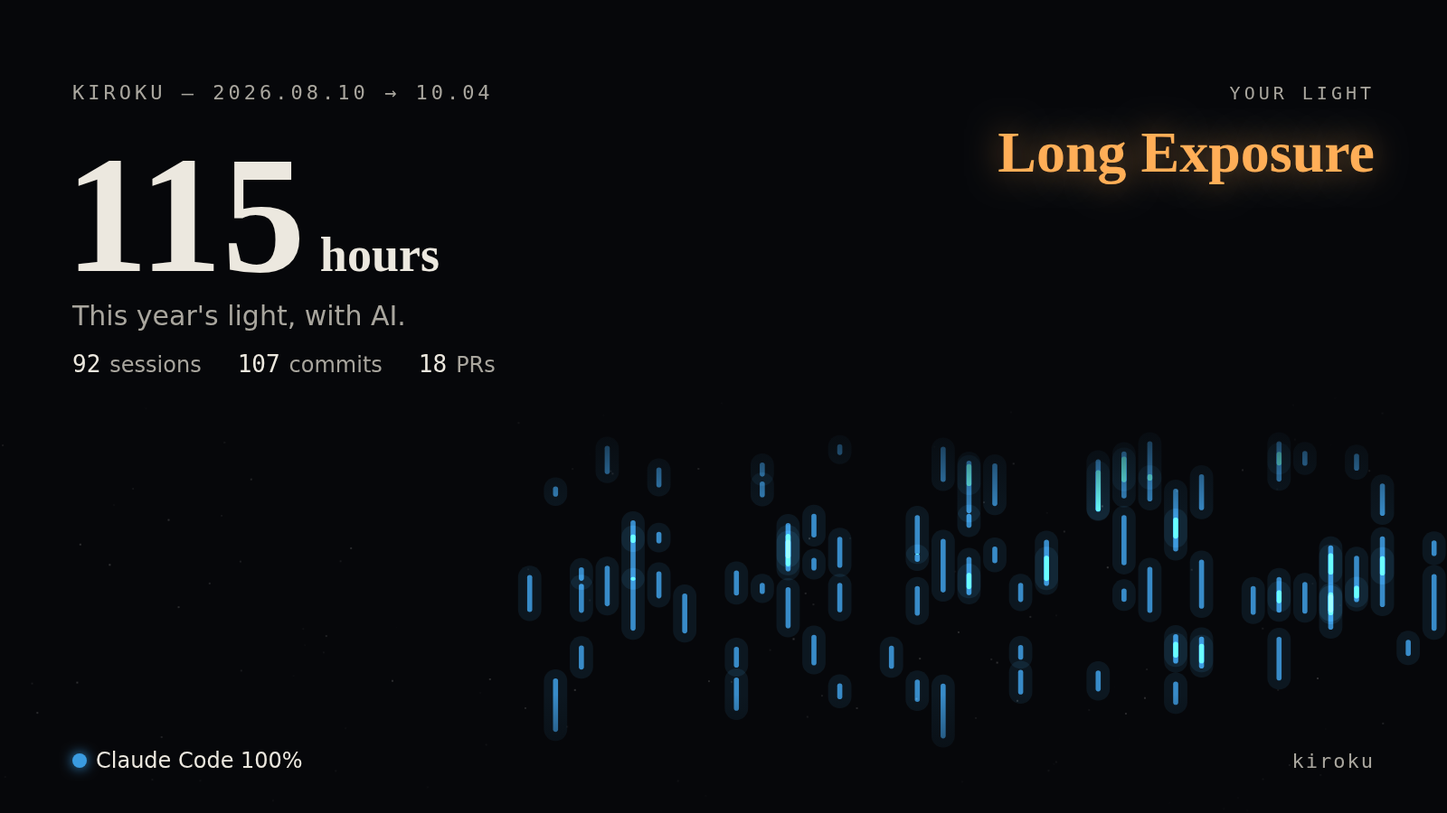
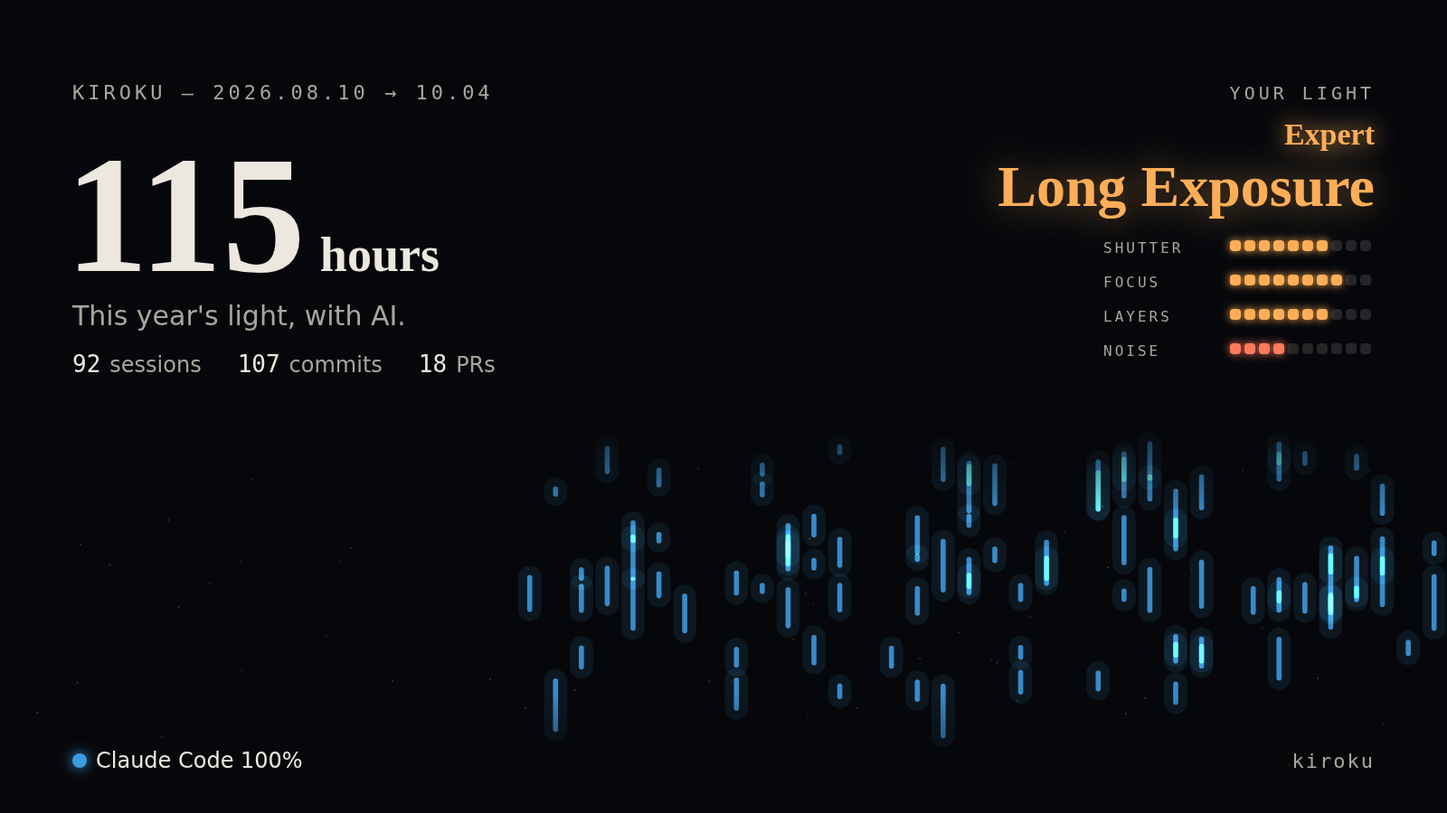
1 年の露光に腕前（4 つのメーター・等級・上達・露出オーバー）を足す (#78)
- 光の名前（型）とは別に、シャッター数（積み重ね）・ピント（仕上げる力）・多重度（使いこなしの幅）・ノイズ（回り道）を 10 段階で示す
- 点数（3 つの平均からノイズの 4 割を引く）で 見習い〜伝説 の 10 段階の等級を名前の前に付ける。前半より後半がよくなれば「上達中」で 1 段上げる
- 休みなく続けた・利用上限に何度も当たった・ノイズが多いときは、等級の代わりに露出オーバーの冠（白飛びした・フィルム切れの・ノイズの多い）を付ける
- 年の途中や使い始めの年は、経った日数のぶん（半分まで）満点を下げる
- シェア画像にもメーターと冠を載せる（「腕前」のチェックで外せる）。週次・月次サマリーには使わない

Changed region(s): [[0.6875, 0.1244, 0.9688, 0.4667], [0.7812, 0.3733, 0.8125, 0.4044]]

diff --git a/internal/web/template.html b/internal/web/template.html
@@ -512,8 +512,10 @@ dialog.yr h3{font:700 15px/1.4 var(--sans);margin:30px 0 10px}
 .yropts label{display:inline-flex;align-items:center;gap:6px;cursor:pointer}
 .yract{display:flex;flex-wrap:wrap;gap:8px;margin-top:12px}
 .yrtype{display:grid;grid-template-columns:auto minmax(0,1fr);gap:22px;align-items:start}
-.yrtn{writing-mode:vertical-rl;font:800 44px/1 var(--mincho);letter-spacing:.1em;white-space:nowrap}
-.yrtn.h{writing-mode:horizontal-tb;font-size:30px;letter-spacing:0}
+.yrtn{display:flex;flex-direction:row-reverse;align-items:flex-start;gap:8px;font:800 44px/1 var(--mincho);letter-spacing:.1em;white-space:nowrap}
+.yrtn>span{writing-mode:vertical-rl}
+.yrtn.h{flex-direction:column;gap:4px;font-size:30px;letter-spacing:0}.yrtn.h>span{writing-mode:horizontal-tb}
+.yrtn .pre{font-size:20px;font-weight:700;color:#d98a3a}.yrtn .pre.over{color:var(--warn)}
 .yrtd{margin:0;font-size:14px}
 .yrev{display:grid;grid-template-columns:repeat(3,minmax(0,1fr));gap:12px;margin:12px 0 0}
 .yrev div{border-top:1px solid var(--rule);padding-top:8px;min-width:0}
@@ -522,8 +524,19 @@ dialog.yr h3{font:700 15px/1.4 var(--sans);margin:30px 0 10px}
 .yrtypes summary{cursor:pointer;font-size:12px;color:var(--ink-2);margin-top:14px}
 .yrtypes ul{list-style:none;padding:0;margin:8px 0 0;display:grid;grid-template-columns:repeat(2,minmax(0,1fr));gap:6px 18px;font-size:12px;color:var(--ink-2)}
 .yrtypes b{color:var(--ink)}
+.yrgrade{margin-top:14px}
+.yrexp{display:inline-block;font-size:12px;font-weight:600;padding:3px 10px;border-radius:999px;border:1px solid var(--rule-2);color:var(--ink-2)}
+.yrexp.ok{color:var(--acc-ink);border-color:var(--acc)}.yrexp.over{color:var(--warn);border-color:var(--warn)}
+.yrmeter{display:grid;gap:10px;margin:12px 0 0}
+.yrmeter div{display:grid;grid-template-columns:9em minmax(0,1fr);gap:12px;align-items:center;border-top:1px solid var(--rule);padding-top:8px}
+.yrmeter dt{font-weight:700;font-size:13px}.yrmeter dt small{display:block;font-weight:400;font-size:11px;color:var(--ink-3)}
+.yrmeter dd{margin:0;display:flex;flex-wrap:wrap;gap:6px 14px;align-items:center;min-width:0}
+.yrmeter .pp{display:inline-flex;gap:3px}.yrmeter .pp i{width:10px;height:8px;border-radius:3px;background:var(--rule-2)}.yrmeter .pp i.on{background:#ffae57;box-shadow:0 0 8px rgba(255,174,87,.6)}
+.yrmeter .pv{font-size:12px;color:var(--ink-2);font-variant-numeric:tabular-nums}
+.yrmeter .neg .pp i.on{background:#ff7a5c;box-shadow:0 0 8px rgba(255,122,92,.6)}.yrgrade .yrexp + .yrexp{margin-left:6px}
 @media (max-width:820px){dialog.yr{padding:18px 16px 24px;width:calc(100vw - 16px);max-height:calc(100dvh - 16px)}
-  .yrhow,.yrev,.yrtypes ul,.yrtype{grid-template-columns:minmax(0,1fr)}.yrtn{writing-mode:horizontal-tb;font-size:30px;letter-spacing:0}}
+  .yrhow,.yrev,.yrtypes ul,.yrtype{grid-template-columns:minmax(0,1fr)}.yrtn{flex-direction:column;gap:4px;font-size:30px;letter-spacing:0}.yrtn>span{writing-mode:horizontal-tb}
+  .yrmeter div{grid-template-columns:minmax(0,1fr)}}
 .keys{display:grid;grid-template-columns:auto 1fr;gap:9px 16px;font-size:12.5px;margin-top:14px;align-items:center}
 .keys kbd{justify-self:start}
 
@@ -1672,7 +1685,7 @@ const PLATE = ["#3a9be0","#f07a2b","#1fbf8f","#e08fbd","#f2b53a","#7cc6f0","#9c8
 const FONT = { mincho: '"Hiragino Mincho ProN","Yu Mincho","YuMincho","Noto Serif JP","Noto Serif CJK JP",serif',
   sans: '"Hiragino Sans","Hiragino Kaku Gothic ProN","Noto Sans JP","Noto Sans CJK JP","Yu Gothic UI",system-ui,sans-serif',
   mono: 'ui-monospace,"SFMono-Regular","JetBrains Mono",Menlo,Consolas,monospace' };
-const yr = { y: null, x: null, L: null, opt: Object.assign({out: true, type: true, agents: true}, store.get("yrOpt", {})) };
+const yr = { y: null, x: null, L: null, G: null, opt: Object.assign({out: true, type: true, grade: true, agents: true}, store.get("yrOpt", {})) };
 function yearsOf(){ return [...new Set(Object.keys(MONTHS).map(k => +k.slice(0, 4)))].sort((a, b) => a - b); }
 function yearData(y){
   const ms = Object.keys(MONTHS).filter(k => k.startsWith(y + "-")).sort().map(k => MONTHS[k]);
@@ -1703,11 +1716,28 @@ function yearData(y){
     });
   });
   const ht = hist.reduce((a, v) => a + v, 0) || 1, now = today0();
+  // 腕前に使う数字（gradeOf）。割合は、記録のある期間・エージェントだけで出す
+  const outBase = sum(m => m.outBase), cost = sum(m => m.usage && m.usage.cost), nY = Math.max(1, nses);
+  const mods = {}; ms.forEach(m => ((m.usage || {}).models || []).forEach(([k, , t]) => mods[k] = (mods[k] || 0) + (t || 0)));
+  const mT = Object.values(mods).reduce((a, v) => a + v, 0);
+  // 上達：記録のある月が 4 か月以上なら、前半と後半で言い直しの割合と 1 コミットあたりのコストを比べる
+  const half = ms.filter(m => m.prompts), hv = xs => { const p = xs.reduce((a, m) => a + (m.fixRate == null ? 0 : m.prompts), 0), c = xs.reduce((a, m) => a + (m.outputs ? m.outputs.commits : 0), 0);
+    return {fix: p ? xs.reduce((a, m) => a + (m.fixRate == null ? 0 : m.fixRate * m.prompts), 0)/p : null, cpc: c >= 3 ? xs.reduce((a, m) => a + (m.costPerCommit == null ? 0 : m.costPerCommit * m.outputs.commits), 0)/c : null}; };
+  const h1 = half.length >= 4 ? hv(half.slice(0, half.length >> 1)) : null, h2 = h1 && hv(half.slice(half.length >> 1));
+  const grow = !!h1 && (h1.fix != null && h2.fix != null && h1.fix - h2.fix >= 3 || h1.cpc != null && h2.cpc != null && h2.cpc <= h1.cpc * .8);
+  const first = DATA.find(s => s.start >= y0 && s.start < y1), span = Math.max(1, Math.round(((now.getFullYear() === y ? +now/1000 : y1) - (first ? Math.max(y0, first.start) : y0))/86400));
   return { y, nd, active, lines, agents, streak, sessions: nses,
     nightPct: active ? night/active*100 : 0, morningPct: (hist[5] + hist[6] + hist[7] + hist[8])/ht*100, peak: hist.indexOf(Math.max(...hist)),
     fix: fixP ? sum(m => m.fixRate == null ? 0 : m.fixRate * m.prompts)/fixP : null,
     avgMin: nses ? segMin/nses : 0, perSes: nses ? nprompts/nses : 0,
     commits: sum(m => m.git && m.git.commits), prs: sum(m => m.outputs && m.outputs.prs),
+    days: on.size, prompts: nprompts, span, fixP, outBase, grow,
+    reach: outBase >= 5 ? sum(m => m.outSessions)/outBase*100 : null,
+    perCommit: outBase >= 5 && sum(m => m.outputs && m.outputs.commits) ? sum(m => m.prompts)/sum(m => m.outputs.commits) : null,
+    parPct: active ? sum(m => m.parallel)/active*100 : 0, subagents: sum(m => m.usage && m.usage.subagents),
+    models: mT ? Object.values(mods).filter(v => v/mT >= .1).length : 0,
+    longPct: longCtxOf(y0, y1).length/nY*100, idlePct: cost >= 1 ? idleOf(y0, y1).c/cost*100 : null, lightPct: cost >= 1 ? lightOf(y0, y1).c/cost*100 : null,
+    limits: limitHits(y0, y1).length,
     partial: now.getFullYear() === y ? now : null };
 }
 /* 光の名前：使い方の傾向を写真の言葉で表す（良し悪しではない）。上から順に、最初に当てはまったもの */
@@ -1733,6 +1763,37 @@ const LIGHTS = [
   {k: "day", ja: "昼光型", en: "Daylight", m: "peak", t: () => true,
    dj: "日中に、落ち着いて AI と進める。", de: "You work with AI steadily through the day.",
    rj: "ほかのどれにも当てはまらない", re: "None of the above"}];
+/* 腕前：光の名前（型）とは別に、4 つのメーターで積み重ね・仕上げる力・使いこなしの幅・回り道を 0〜1 で測る。露光の画面だけの遊びで、週次・月次サマリーには使わない */
+const TIERS = [ // 点数で決める 10 段階（10% ごと）
+  ["見習い", "Novice"], ["入門", "Beginner"], ["駆け出し", "Apprentice"], ["一人前", "Competent"], ["腕利き", "Skilled"],
+  ["熟練", "Expert"], ["達人", "Master"], ["名人", "Virtuoso"], ["巨匠", "Grandmaster"], ["伝説", "Legendary"]].map(([ja, en], i) => ({ja, en, u: i === 9 ? Infinity : (i + 1)/10}));
+const OVERS = [ // 露出オーバー（働き方の危うさ・回り道が多すぎる）。上から順に、最初に当てはまったものを等級の代わりに冠にする
+  {k: "blown", ja: "白飛びした", en: "Blown-Out", t: x => x.streak >= 30 && x.active/Math.max(1, x.days) >= 120 || x.nightPct >= 40 && x.streak >= 14,
+   rj: "1 日平均 2 時間以上で 30 日以上休みなく続けたか、深夜の作業が 40% 以上で 14 日以上休みなし", re: "30+ days in a row without a break at 2+ hours a day, or 40%+ late at night with 14+ days in a row"},
+  {k: "film", ja: "フィルム切れの", en: "Out-of-Film", t: x => x.limits >= 10,
+   rj: "利用上限に 10 回以上当たった", re: "Hit a usage limit 10 or more times"},
+  {k: "noise", ja: "ノイズの多い", en: "Grainy", t: (x, G) => G.m.noise != null && G.m.noise >= .6,
+   rj: "ノイズ（回り道）が 60% 以上", re: "Noise (detours) at 60% or more"}];
+function gradeOf(x){
+  const c = v => Math.max(0, Math.min(1, v)), avg = a => (a = a.filter(v => v != null)).length ? a.reduce((s, v) => s + v, 0)/a.length : null;
+  const top2 = a => avg(a.slice().sort((p, q) => q - p).slice(0, 2)); // 使いこなしの幅は、どれか 2 つが得意なら高くなる
+  const f = Math.max(.5, Math.min(1, x.span/365)); // 年の途中や使い始めの年は、経った日数のぶんだけ満点を下げる（使い始めてすぐ満点にならないよう、半分まで）
+  const eff = 1/(x.agents.reduce((s, g) => s + (g.pct/100)**2, 0) || 1); // 使い分けの度合い（1 つだけなら 1、3 つを均等なら 3）
+  const m = {
+    shutter: avg([c(x.days/(180*f)), c(Math.log1p(x.prompts)/Math.log1p(3000*f)), c(Math.log1p(x.active/60)/Math.log1p(800*f))]),
+    focus: avg([x.reach == null ? null : c(x.reach/50), x.perCommit == null ? null : c((20 - x.perCommit)/15)]), // コミットまで 50%・5 依頼で 1 コミットで満点
+    multi: top2([c(x.parPct/30), c(Math.log1p(x.subagents)/Math.log1p(200*f)), c((eff - 1)/2), c((x.models - 1)/2)]),
+    noise: avg([x.fix == null ? null : c((x.fix - 5)/20), c(x.longPct/15), x.idlePct == null ? null : c(x.idlePct/40), x.lightPct == null ? null : c(x.lightPct/20)]) };
+  const base = avg([m.shutter, m.focus, m.multi]) || 0, score = Math.max(0, base - .4*(m.noise || 0));
+  let ti = TIERS.findIndex(t => score < t.u);
+  if (x.grow) ti = Math.min(TIERS.length - 1, ti + 1); // 上達していれば 1 段上げる
+  if (ti === TIERS.length - 1 && !([m.shutter, m.focus ?? 1, m.multi].every(v => v >= .8) && (m.noise || 0) <= .2)) ti--; // 伝説は 3 つとも高く、ノイズが少ないときだけ
+  const G = {m, score, tier: TIERS[ti], grow: x.grow};
+  G.over = OVERS.find(o => o.t(x, G));
+  G.exp = G.over ? "over" : score < .4 ? "under" : "ok";
+  return G;
+}
+const pips = v => v == null ? 0 : Math.max(0, Math.min(10, Math.round(v*10))); // メーターの 10 段階
 function lightMetric(k, x){
   return ({ night: [tr("深夜（22〜6 時）の作業", "Late-night work (22:00–6:00)"), `${Math.round(x.nightPct)}%`],
     morning: [tr("5〜9 時の作業", "Work between 5:00 and 9:00"), `${Math.round(x.morningPct)}%`],
@@ -1766,6 +1827,16 @@ function drawPlate(){
   const r = cv.getBoundingClientRect(), p = Math.min(2, devicePixelRatio || 1), W = Math.round(r.width*p), H = Math.round(r.height*p);
   if (!W || !H) return; cv.width = W; cv.height = H; exposure(cv.getContext("2d"), 0, 0, W, H, yr.x, p, true);
 }
+function cardMeters(g, X, Y, ink2, amber){ // シェア画像の腕前：4 つのメーターを 10 段階で
+  const G = yr.G; g.save(); g.textAlign = "left"; g.textBaseline = "alphabetic";
+  [["shutter", tr("シャッター数", "SHUTTER")], ["focus", tr("ピント", "FOCUS")], ["multi", tr("多重度", "LAYERS")], ["noise", tr("ノイズ", "NOISE")]].forEach(([k, n], r) => {
+    const y = Y + r*38, p = pips(G.m[k]), on = k === "noise" ? "#ff7a5c" : amber;
+    g.fillStyle = ink2; g.font = `500 ${EN() ? 16 : 20}px ${EN() ? FONT.mono : FONT.sans}`; if (EN() && "letterSpacing" in g) g.letterSpacing = "3px"; g.fillText(n, X, y); if ("letterSpacing" in g) g.letterSpacing = "0px";
+    for (let i = 0; i < 10; i++){ g.fillStyle = i < p ? on : "rgba(255,255,255,.12)"; g.shadowColor = on; g.shadowBlur = i < p ? 10 : 0;
+      g.beginPath(); g.roundRect ? g.roundRect(X + 140 + i*16, y - 14, 12, 12, 4) : g.rect(X + 140 + i*16, y - 14, 12, 12); g.fill(); }
+    g.shadowBlur = 0; });
+  g.restore();
+}
 function drawCard(){
   const cv = $("#yrcard"); if (!cv || !yr.x) return;
   const x = yr.x, L = yr.L, o = yr.opt, W = 1600, H = 900, g = cv.getContext("2d");
@@ -1796,19 +1867,27 @@ function drawCard(){
   items.forEach(([n, l]) => { g.font = `500 26px ${FONT.mono}`; g.fillStyle = ink; const t = n.toLocaleString(LOC()); g.fillText(t, cx, 412); cx += g.measureText(t).width + 10;
     g.font = `500 24px ${FONT.sans}`; g.fillStyle = ink2; g.fillText(l, cx, 412); cx += g.measureText(l).width + 40; });
   if (o.type && L){
+    const G = yr.G, pre = o.grade ? (G.over ? tr(G.over.ja, G.over.en) : tr(`${G.tier.ja}の`, G.tier.en)) : "", hot = "#ff7a5c", pc = o.grade && G.over ? hot : amber;
     g.shadowColor = "rgba(255,174,87,.5)"; g.shadowBlur = 36;
     if (EN()){
       g.textAlign = "right"; g.shadowBlur = 0; g.fillStyle = ink2; g.font = `500 20px ${FONT.mono}`; ls("4px"); g.fillText("YOUR LIGHT", W - 80, 110); ls("0px");
-      g.shadowBlur = 36; g.fillStyle = amber; g.font = `800 64px ${FONT.mincho}`; g.fillText(L.en, W - 80, 190);
+      if (pre){ g.shadowColor = pc; g.shadowBlur = 24; g.fillStyle = pc; g.font = `700 34px ${FONT.mincho}`; g.fillText(pre, W - 80, 160); }
+      g.shadowColor = "rgba(255,174,87,.5)"; g.shadowBlur = 36; g.fillStyle = amber; g.font = `800 64px ${FONT.mincho}`; g.fillText(L.en, W - 80, pre ? 228 : 190);
+      g.shadowBlur = 0; if (o.grade) cardMeters(g, W - 80 - 300, 280, ink2, amber);
     } else {
-      const ch = [...L.ja], sz = Math.min(92, 300/ch.length), x0 = W - 80 - sz;
-      g.textAlign = "center"; g.textBaseline = "top"; g.fillStyle = amber; g.font = `800 ${sz}px ${FONT.mincho}`;
+      // 縦書きは右から読むので、冠（等級）を右の列に小さく、名前をその左に置く
+      const pc2 = [...pre], ps = pre ? Math.min(34, 300/pc2.length) : 0, ch = [...L.ja], sz = Math.min(92, 300/ch.length), x0 = W - 80 - sz - (pre ? ps + 14 : 0);
+      g.textAlign = "center"; g.textBaseline = "top";
+      if (pre){ g.save(); g.shadowColor = pc; g.shadowBlur = 20; g.fillStyle = pc; g.font = `700 ${ps}px ${FONT.mincho}`; pc2.forEach((c, i) => g.fillText(c, W - 80 - ps/2, 96 + i*ps*1.08)); g.restore(); }
+      g.fillStyle = amber; g.font = `800 ${sz}px ${FONT.mincho}`;
       ch.forEach((c, i) => g.fillText(c, x0 + sz/2, 92 + i*sz*1.04));
+      const lx = x0 - 30;
       g.shadowBlur = 0; g.fillStyle = ink2; g.font = `500 20px ${FONT.sans}`;
-      [..."あなたの光の名前"].forEach((c, i) => g.fillText(c, x0 - 30, 96 + i*25));
+      [..."あなたの光の名前"].forEach((c, i) => g.fillText(c, lx, 96 + i*25));
       const bottom = 92 + ch.length*sz*1.04;
       if (bottom + 74 < top + 10){ const sx = x0 + sz/2 - 27, sy = bottom + 16; g.strokeStyle = amber; g.lineWidth = 2; g.strokeRect(sx, sy, 54, 54);
         g.fillStyle = amber; g.font = `800 20px ${FONT.mincho}`; g.fillText("記", sx + 27, sy + 5); g.fillText("録", sx + 27, sy + 28); }
+      if (o.grade){ g.textBaseline = "alphabetic"; cardMeters(g, lx - 50 - 300, 130, ink2, amber); }
     }
     g.shadowBlur = 0; g.textAlign = "left"; g.textBaseline = "alphabetic";
   }
@@ -1822,7 +1901,7 @@ function drawCard(){
 function renderYear(){
   const ys = yearsOf(), dlg = $("#yr"); if (!ys.length) return;
   if (!ys.includes(yr.y)) yr.y = ys.includes(today0().getFullYear()) ? today0().getFullYear() : ys[ys.length-1];
-  const x = yr.x = yearData(yr.y), L = yr.L = LIGHTS.find(l => l.t(x)), pt = x.partial;
+  const x = yr.x = yearData(yr.y), L = yr.L = LIGHTS.find(l => l.t(x)), G = yr.G = gradeOf(x), pt = x.partial;
   const pos = d => (Math.round((d - new Date(x.y, 0, 1))/864e5)/x.nd*100).toFixed(2);
   const months = Array.from({length: 12}, (_, i) => `<span style="left:${pos(new Date(x.y, i, 1))}%">${EN() ? new Date(x.y, i, 1).toLocaleString("en-US", {month: "short"}) : `${i+1}月`}</span>`).join("");
   const hours = [["6", 0], ["12", 25], ["18", 50], ["0", 75], ["6", 100]].map(([h, t]) => `<span style="top:${t}%">${tr(`${h}時`, `${h}:00`)}</span>`).join("");
@@ -1840,17 +1919,23 @@ function renderYear(){
 
   <h3>${tr("シェア用の 1 枚", "An image to share")}</h3>
   <canvas class="yrcard" id="yrcard" width="1600" height="900" role="img" aria-label="${esc(tr(`シェア用の画像。${x.y} 年に AI と過ごした時間 ${dur(x.active)}`, `Image to share: ${dur(x.active)} with AI in ${x.y}`))}"></canvas>
-  <div class="yropts">${opt("out", tr("コミット・PR", "Commits and PRs"))}${opt("type", tr("光の名前", "Your light"))}${opt("agents", tr("エージェントの内訳", "Agent breakdown"))}</div>
+  <div class="yropts">${opt("out", tr("コミット・PR", "Commits and PRs"))}${opt("type", tr("光の名前", "Your light"))}${opt("grade", tr("腕前", "Skill"))}${opt("agents", tr("エージェントの内訳", "Agent breakdown"))}</div>
   <div class="yract"><button class="pill" id="yrsave">${tr("PNG で保存", "Save as PNG")}</button><button class="pill" id="yrcopy">${tr("画像をコピー", "Copy image")}</button></div>
   <p class="note">${tr("画像に載るのは、作業していた時間・セッション数などの集計と光の筋だけです。依頼文・プロジェクト名・ブランチ・ファイル・目安コストは載りません。画像はこのブラウザの中で作り、どこにも送りません。", "The image shows only totals such as active time and sessions, and the streaks of light. Prompts, project names, branches, files and estimated cost are never included. It is made in this browser and sent nowhere.")}</p>
 
   <h3>${tr("あなたの光の名前", "Your light")}</h3>
-  <div class="yrtype"><div class="yrtn${EN() ? " h" : ""}">${name(L)}</div><div>
+  <div class="yrtype"><div class="yrtn${EN() ? " h" : ""}"><span class="pre${G.over ? " over" : ""}">${esc(G.over ? tr(G.over.ja, G.over.en) : tr(`${G.tier.ja}の`, G.tier.en))}</span><span>${name(L)}</span></div><div>
     <p class="yrtd">${tr(L.dj, L.de)}</p>
+    <div class="yrgrade"><div class="yrexp ${G.exp}">${{under: tr("露出アンダー：これから伸びる", "Underexposed: room to grow"), ok: tr("適正露出：いい写り", "Well exposed"), over: tr(`露出オーバー：${G.over ? G.over.rj : ""}`, `Overexposed: ${G.over ? G.over.re : ""}`)}[G.exp]}</div>${G.grow ? `<div class="yrexp ok">${tr("↗ 上達中：前半より後半がうまくなった（等級を 1 段上げています）", "↗ Improving: the second half beat the first (one level up)")}</div>` : ""}
+      ${meters(x, G)}</div>
     <dl class="yrev">${ev.map(([k, v]) => `<div><dt>${k}</dt><dd>${v}</dd></div>`).join("")}</dl>
     <p class="note">${tr(`光の名前は、この 1 年の使い方の傾向を写真の言葉で表したもので、良し悪しではありません。決め手：${L.rj}`, `Your light describes the shape of your year in photography terms. It is not a verdict. Why: ${L.re}`)}${x.active < 600 ? tr("（記録が少ないので、参考程度に）", " (based on little history, so take it lightly)") : ""}</p>
     <details class="yrtypes"><summary>${tr("七つの光の名前と基準", "All seven and how they are chosen")}</summary><ul>${LIGHTS.map(l => `<li><b>${name(l)}</b> — ${tr(l.rj, l.re)}</li>`).join("")}</ul>
-      <p class="note">${tr("上から順に、最初に当てはまったものを選びます。", "The first one that matches, from the top, is chosen.")}</p></details></div></div>`;
+      <p class="note">${tr("上から順に、最初に当てはまったものを選びます。", "The first one that matches, from the top, is chosen.")}</p></details>
+    <details class="yrtypes"><summary>${tr("腕前の等級と露出オーバー", "Skill levels and overexposure")}</summary>
+      <ul>${TIERS.map((t, i) => `<li><b>${tr(t.ja, t.en)}</b> — ${tr(`点数が ${i*10}〜${i*10 + 10}%`, `Score ${i*10}–${i*10 + 10}%`)}</li>`).join("")}
+        ${OVERS.map(o => `<li><b>${tr(o.ja.replace(/(した|の)$/, ""), o.en)}</b> — ${tr(o.rj, o.re)}</li>`).join("")}</ul>
+      <p class="note">${tr("点数は、シャッター数・ピント・多重度の平均から、ノイズの 4 割を引いたものです。伝説は 3 つがどれも 80% 以上で、ノイズが 20% 以下のときだけ。年の前半より後半で言い直しが 3 ポイント以上減るか、1 コミットあたりのコストが 2 割以上下がると「上達中」として 1 段上がります。シャッター数は作業した日数（180 日）・依頼の数（3,000 件）・作業時間（800 時間）、ピントはコミットか PR まで行った割合（50%）と 1 コミットあたりの依頼の少なさ（5 件）、多重度は並列の割合（30%）・サブエージェント（200 回）・エージェントとモデルの使い分けのうち得意な 2 つ、ノイズは言い直し・長くなった会話・コミットにつながらなかったコスト・軽い作業に高いモデルから出します（かっこは満点の目安。年の途中は、経った日数のぶん半分まで下げます）。数字は目安で、腕前と関係のない理由でも上下するので、遊びとして見てください。", "The score is the average of shutter count, focus and layers, minus 40% of noise. Legendary needs all three at 80% or more and noise at 20% or less. If corrections drop by 3 points or cost per commit falls by 20% from the first half of the year to the second, you are \"improving\" and go up one level. Shutter count comes from active days (180), prompts (3,000) and active time (800 hours); focus from sessions that reached a commit or pull request (50%) and few prompts per commit (5); layers from your best two of parallel time (30%), subagents (200 runs), and using several agents and models; noise from corrections, long conversations, cost with no commit and expensive models for light work (full marks in brackets, scaled down to as little as half for a year in progress). These are rough proxies that can move for reasons unrelated to skill, so treat it as a game.")}</p></details></details></div></div>`;
   $("#yrsel").onchange = e => { yr.y = +e.target.value; renderYear(); };
   dlg.querySelectorAll("[data-o]").forEach(c => c.onchange = () => { yr.opt[c.dataset.o] = c.checked; store.set("yrOpt", yr.opt); drawCard(); });
   const blob = () => new Promise(res => $("#yrcard").toBlob(res, "image/png"));
@@ -1861,6 +1946,16 @@ function renderYear(){
     catch(e){ toast(tr("画像をコピーできませんでした。PNG で保存してください", "Couldn't copy the image. Save it as a PNG instead"), 2600); } };
   drawPlate(); drawCard();
   const sc = dlg.querySelector(".yrscroll"); sc.scrollLeft = sc.scrollWidth; // 狭い画面では、新しい記録の側を見せる
+}
+function meters(x, G){
+  const pct = v => v == null ? "—" : `${Math.round(v)}%`;
+  const rows = [
+    ["shutter", tr("シャッター数", "Shutter count"), tr("積み重ね", "Practice"), tr(`${x.days} 日・依頼 ${x.prompts.toLocaleString(LOC())} 件・${dur(x.active)}`, `${plural(x.days, "day")} · ${plural(x.prompts, "prompt")} · ${dur(x.active)}`)],
+    ["focus", tr("ピント", "Focus"), tr("仕上げる力", "Follow-through"), tr(`コミットまで ${pct(x.reach)}・1 コミットあたり依頼 ${x.perCommit == null ? "—" : x.perCommit.toFixed(1) + " 件"}`, `To commit ${pct(x.reach)} · ${x.perCommit == null ? "—" : x.perCommit.toFixed(1)} prompts per commit`)],
+    ["multi", tr("多重度", "Layers"), tr("使いこなしの幅", "Range"), tr(`並列 ${pct(x.parPct)}・サブエージェント ${x.subagents} 回・エージェント ${x.agents.length}・モデル ${x.models}`, `Parallel ${pct(x.parPct)} · ${plural(x.subagents, "subagent run")} · ${plural(x.agents.length, "agent")} · ${plural(x.models, "model")}`)],
+    ["noise", tr("ノイズ", "Noise"), tr("回り道（少ないほど澄んだ写り）", "Detours (fewer means a cleaner shot)"), tr(`言い直し ${pct(x.fix)}・長くなった会話 ${pct(x.longPct)}・コミットにつながらなかったコスト ${pct(x.idlePct)}・軽い作業に高いモデル ${pct(x.lightPct)}`, `Corrections ${pct(x.fix)} · long conversations ${pct(x.longPct)} · cost with no commit ${pct(x.idlePct)} · expensive models for light work ${pct(x.lightPct)}`)]];
+  return `<dl class="yrmeter">${rows.map(([k, n, sub, v]) => { const p = pips(G.m[k]);
+    return `<div${k === "noise" ? ' class="neg"' : ""}><dt>${n}<small>${sub}</small></dt><dd><span class="pp" role="img" aria-label="${tr(`10 段階の ${p}`, `${p} of 10`)}">${"<i class=on></i>".repeat(p)}${"<i></i>".repeat(10 - p)}</span><span class="pv">${v}</span></dd></div>`; }).join("")}</dl>`;
 }
 function openYear(){ const d = $("#yr"); if (!d.open) d.showModal(); renderYear(); }
 

diff --git a/docs/guide.md b/docs/guide.md
@@ -70,7 +70,7 @@ go install github.com/MichinaoShimizu/kiroku@latest
 - 検索（右上、`/`）：依頼文・タイトル・プロジェクト・ブランチ・エージェントに加えて、変更したファイル・PR・そのセッションの間のコミット（件名・ハッシュ・ファイル）も探します。カレンダーは一致したセッションだけを表示し、サマリーの位置に全期間の検索結果を「セッション」と「コミット」（件名・本文・ハッシュ・変更したファイルで一致）に分けて、一致した箇所の抜粋つきで表示します。凡例で非表示にしたものは除きます。結果を押すと、その週を開いて詳細を表示します
 - 週報・月報の下書き：サマリーの見出しの「週報の下書き」（月表示では「月報の下書き」）を押すと、プロジェクトごとに、やったこと（セッション名）・コミット・PR をまとめた Markdown の文面が開きます。文面を確かめてから「コピー」でコピーし、「閉じる」で閉じます。凡例で非表示にしたセッションは含めません。セッション名は依頼文の冒頭なので、共有する前に確認・編集してください
 - 1 年の露光：期間の移動の横の「1 年の露光」（`Y`）で開きます。横に日付、縦に 1 日の時刻（朝 6 時から翌朝 6 時。深夜の作業は前の日の列の下のほうに写ります）をとり、セッションの作業していた区間を光の筋で描きます。色はエージェント、同時に動いていたほど明るく写ります。右上で年を選べます
-  - シェア用の 1 枚：作業していた時間・セッション数・コミット・PR・エージェントの内訳と光の筋を、1600×900 の画像にします。「PNG で保存」「画像をコピー」で取り出せます。載せる項目（コミット・PR、光の名前、エージェントの内訳）は選べます。画像は画面の中で作るだけで、どこにも送りません。依頼文・プロジェクト名・ブランチ・ファイル・目安コストは載りません。光の筋は、記録のある日から（短ければ 8 週ぶん）を写します
+  - シェア用の 1 枚：作業していた時間・セッション数・コミット・PR・エージェントの内訳と光の筋を、1600×900 の画像にします。「PNG で保存」「画像をコピー」で取り出せます。載せる項目（コミット・PR、光の名前、腕前、エージェントの内訳）は選べます。画像は画面の中で作るだけで、どこにも送りません。依頼文・プロジェクト名・ブランチ・ファイル・目安コストは載りません。光の筋は、記録のある日から（短ければ 8 週ぶん）を写します
 
     ![1 年の露光のシェア用画像（ダミーデータ）](year.png)
 
@@ -85,6 +85,23 @@ go install github.com/MichinaoShimizu/kiroku@latest
     | 連写型 | 1 セッションの依頼が平均 15 件以上 |
     | ピント合わせ型 | 言い直し・中断のあった依頼が 15% 以上 |
     | 昼光型 | ほかのどれにも当てはまらない |
+
+  - 腕前：光の名前（型）とは別に、4 つのメーターを 10 段階で示し、点数で等級を付けます（「熟練の長時間露光型」のように、名前の前に付きます）。数字は目安で、腕前と関係のない理由でも上下するので、遊びとして見てください。週次・月次サマリーには使いません
+
+    | メーター | 表すもの | 元にする数字（かっこは満点の目安） |
+    |---|---|---|
+    | シャッター数 | 積み重ね | 作業した日数（180 日）、依頼の数（3,000 件、対数）、作業時間（800 時間、対数） |
+    | ピント | 仕上げる力 | コミットか PR まで行ったセッションの割合（50%）、1 コミットあたりの依頼の少なさ（5 件。Claude Code のみ） |
+    | 多重度 | 使いこなしの幅 | 並列で動かした時間の割合（30%）、サブエージェント（200 回、対数）、エージェントの使い分け（3 つを均等）、モデルの使い分け（10% 以上を 3 つ）のうち、得意な 2 つ |
+    | ノイズ | 回り道（少ないほど澄んだ写り） | 言い直し・中断のあった依頼の割合（5% で 0、25% で満点）、長くなった会話の割合（15%）、コストが大きいのにコミットも PR もないセッションのコストの割合（40%）、軽い作業に高いモデルを使ったコストの割合（20%） |
+
+    年の途中や使い始めの年は、経った日数のぶん（半分まで）満点の目安を下げます。点数は、シャッター数・ピント・多重度の平均から、ノイズの 4 割を引いたものです。等級は 10% ごとに 見習い・入門・駆け出し・一人前・腕利き・熟練・達人・名人・巨匠・伝説 の 10 段階で、伝説は 3 つがどれも 80% 以上・ノイズが 20% 以下のときだけです。記録のある月が 4 か月以上あり、前半より後半で言い直しが 3 ポイント以上減るか、1 コミットあたりのコストが 2 割以上下がると「上達中」として 1 段上がります。点数が 40% 未満なら「露出アンダー」（これから伸びる）、それ以上なら「適正露出」と示します。次のどれかに当てはまると「露出オーバー」（働き方や回り道に気をつけたい）として、等級の代わりにその名前が付きます（上から順に、最初に当てはまったもの）
+
+    | 露出オーバー | 基準 |
+    |---|---|
+    | 白飛びした | 1 日平均 2 時間以上で 30 日以上休みなく続けたか、深夜（22〜6 時）の作業が 40% 以上で 14 日以上休みなし |
+    | フィルム切れの | 利用上限に 10 回以上当たった |
+    | ノイズの多い | ノイズが 60% 以上 |
 - 詳細を開くとフォーカスが詳細の中に移り、閉じると開いた帯やカードに戻ります。詳細の中で別の詳細（コミットやセッション）へ移ったときは「前の詳細に戻る」で戻れます
 - キーボード操作：`←` `→` で週・月を移動、`T` で今週・今月、`W` `M` で週・月を切り替え、`Y` で 1 年の露光、`/` で検索、`+` `−` でズーム、`Esc` で詳細を閉じる、`?` でショートカットの一覧を表示
 - 画面の言語は、ブラウザの言語に合わせて日本語か英語になります（日本語のブラウザでは日本語）。右上の選択欄で切り替えられ、選んだ言語はブラウザに保存されます。README とこのガイドの画像は英語表示です

diff --git a/docs/guide.en.md b/docs/guide.en.md
@@ -70,7 +70,7 @@ The old forms `kiroku --serve`, `--json` and `-o` still work for now. `--weekly`
 - Search (top right, `/`): in addition to prompts, titles, projects, branches and agents, it searches files changed, pull requests and commits made during each session (subject, hash, files). The calendar shows only matching sessions, and all-time results appear in place of the summary in two lists, Sessions and Commits (matched on subject, body, hash and files changed), with excerpts showing where they matched. Items hidden in the legend are left out. Press a result to open its week and show the details
 - Weekly and monthly report drafts: "Weekly report draft" ("Monthly report draft" in month view) in the summary heading opens the Markdown text with what you did (session names), commits and pull requests for each project. Check it, then press "Copy"; "Close" hides it. Sessions hidden in the legend are left out. Session names are the start of your prompts, so check and edit them before sharing
 - Year in review: "Year in review" next to the period controls (`Y`) opens the year's "exposure". Across is the date and down is the time of day (6:00 to 6:00 the next morning, so late-night work lands at the bottom of the previous day's column); each stretch of active time in a session is drawn as a streak of light, colored by agent and brighter where sessions overlapped. Choose the year at the top right
-  - An image to share: active time, sessions, commits, pull requests, the agent breakdown and the streaks of light as a 1600×900 image. Get it with "Save as PNG" or "Copy image", and choose what to include (commits and PRs, your light, the agent breakdown). The image is made in the page and sent nowhere; prompts, project names, branches, files and estimated cost are never included. The streaks start from the first day with history (at least 8 weeks)
+  - An image to share: active time, sessions, commits, pull requests, the agent breakdown and the streaks of light as a 1600×900 image. Get it with "Save as PNG" or "Copy image", and choose what to include (commits and PRs, your light, skill, the agent breakdown). The image is made in the page and sent nowhere; prompts, project names, branches, files and estimated cost are never included. The streaks start from the first day with history (at least 8 weeks)
 
     ![Year in review share image (dummy data)](year.png)
 
@@ -85,6 +85,23 @@ The old forms `kiroku --serve`, `--json` and `-o` still work for now. `--weekly`
     | Burst | 15 or more prompts per session on average |
     | Refocus | 15% or more of prompts had a correction or interruption |
     | Daylight | None of the above |
+
+  - Skill: separate from your light (the type), four meters on a 10-step scale, and a level from the score that goes before the name ("Master Long Exposure"). The numbers are rough proxies that can move for reasons unrelated to skill, so treat it as a game. It is not used in the weekly or monthly summary
+
+    | Meter | Shows | Based on (full marks in brackets) |
+    |---|---|---|
+    | Shutter count | Practice | Active days (180), prompts (3,000, log scale), active time (800 hours, log scale) |
+    | Focus | Follow-through | Sessions that reached a commit or pull request (50%), few prompts per commit (5; Claude Code only) |
+    | Layers | Range | Your best two of: share of time in parallel (30%), subagents (200 runs, log scale), using several agents (three used evenly), using several models (three with 10%+) |
+    | Noise | Detours (fewer means a cleaner shot) | Prompts with corrections or interruptions (zero at 5%, full at 25%), long conversations (15% of sessions), cost of sessions with no commit or pull request (40% of cost), expensive models for light work (20% of cost) |
+
+    For a year in progress or your first year, full marks are scaled down by the time elapsed (to as little as half). The score is the average of shutter count, focus and layers, minus 40% of noise. There are ten levels, one per 10%: Novice, Beginner, Apprentice, Competent, Skilled, Expert, Master, Virtuoso, Grandmaster and Legendary; Legendary needs all three at 80% or more and noise at 20% or less. With 4 or more months of history, if corrections drop by 3 points or cost per commit falls by 20% from the first half to the second, you are "improving" and go up one level. A score under 40% shows as "Underexposed" (room to grow), otherwise "Well exposed". If one of these matches, it shows as "Overexposed" and its name replaces the level (the first match from the top)
+
+    | Overexposed | Rule |
+    |---|---|
+    | Blown-Out | 30+ days in a row without a break at 2+ hours a day, or 40%+ late at night (22:00–6:00) with 14+ days in a row |
+    | Out-of-Film | Hit a usage limit 10 or more times |
+    | Grainy | Noise at 60% or more |
 - Opening details moves focus into them, and closing them returns focus to the bar or card you opened them from. When you move from one detail to another (a commit or session), "Back" takes you back
 - Keyboard shortcuts: `←` `→` to move by week or month, `T` for this week or month, `W` `M` to switch between week and month, `Y` for the year in review, `/` to search, `+` `−` to zoom, `Esc` to close details, `?` to show the shortcut list
 - The view is in Japanese in a Japanese-language browser, and in English otherwise. You can switch it with the selector at the top right, and your choice is saved in the browser. Images in the README and this guide show the English view

diff --git a/CHANGELOG.md b/CHANGELOG.md
@@ -7,6 +7,7 @@ Notable changes to kiroku, in the style of [Keep a Changelog](https://keepachang
 ### Added
 
 - Year in review (`Y`, or "Year in review" next to the period controls; 「1 年の露光」 in Japanese): your year of active time drawn like a long-exposure photo, with date across and time of day down, each session's active stretches as streaks of light colored by agent. It names the shape of your year ("Night Glow", "Long Exposure" and five more, with the rule that chose it) and makes a 1600×900 image to share, saved as a PNG or copied. The image is drawn in the page and shows only totals and the streaks; prompts, project names, branches, files and estimated cost are never included
+- Skill in the year in review: four meters on a 10-step scale (shutter count for practice, focus for craft, layers for range, and noise for detours), and ten levels from Novice to Legendary before your light's name. Improving from the first half of the year to the second raises the level by one. "Overexposed" names (Blown-Out, Out-of-Film, Grainy) replace the level when you work without breaks, keep hitting usage limits or noise runs high. It can be left off the share image
 - `kiroku archive on` keeps compressed copies of history that agents delete automatically (Claude Code conversations, Kiro Crew's `sessions/archive/`), and shows deleted conversations from those copies. It is off until you turn it on; the notice about Claude Code's 30-day default also offers "Keep a copy in kiroku" in `kiroku serve`. Copies stay on your computer (`--archive-dir` or `KIROKU_ARCHIVE_DIR` to choose where). `kiroku archive` shows the status, and `kiroku archive off` stops it. "Data sources" shows how many conversations came from the copies
 
 ### Changed
